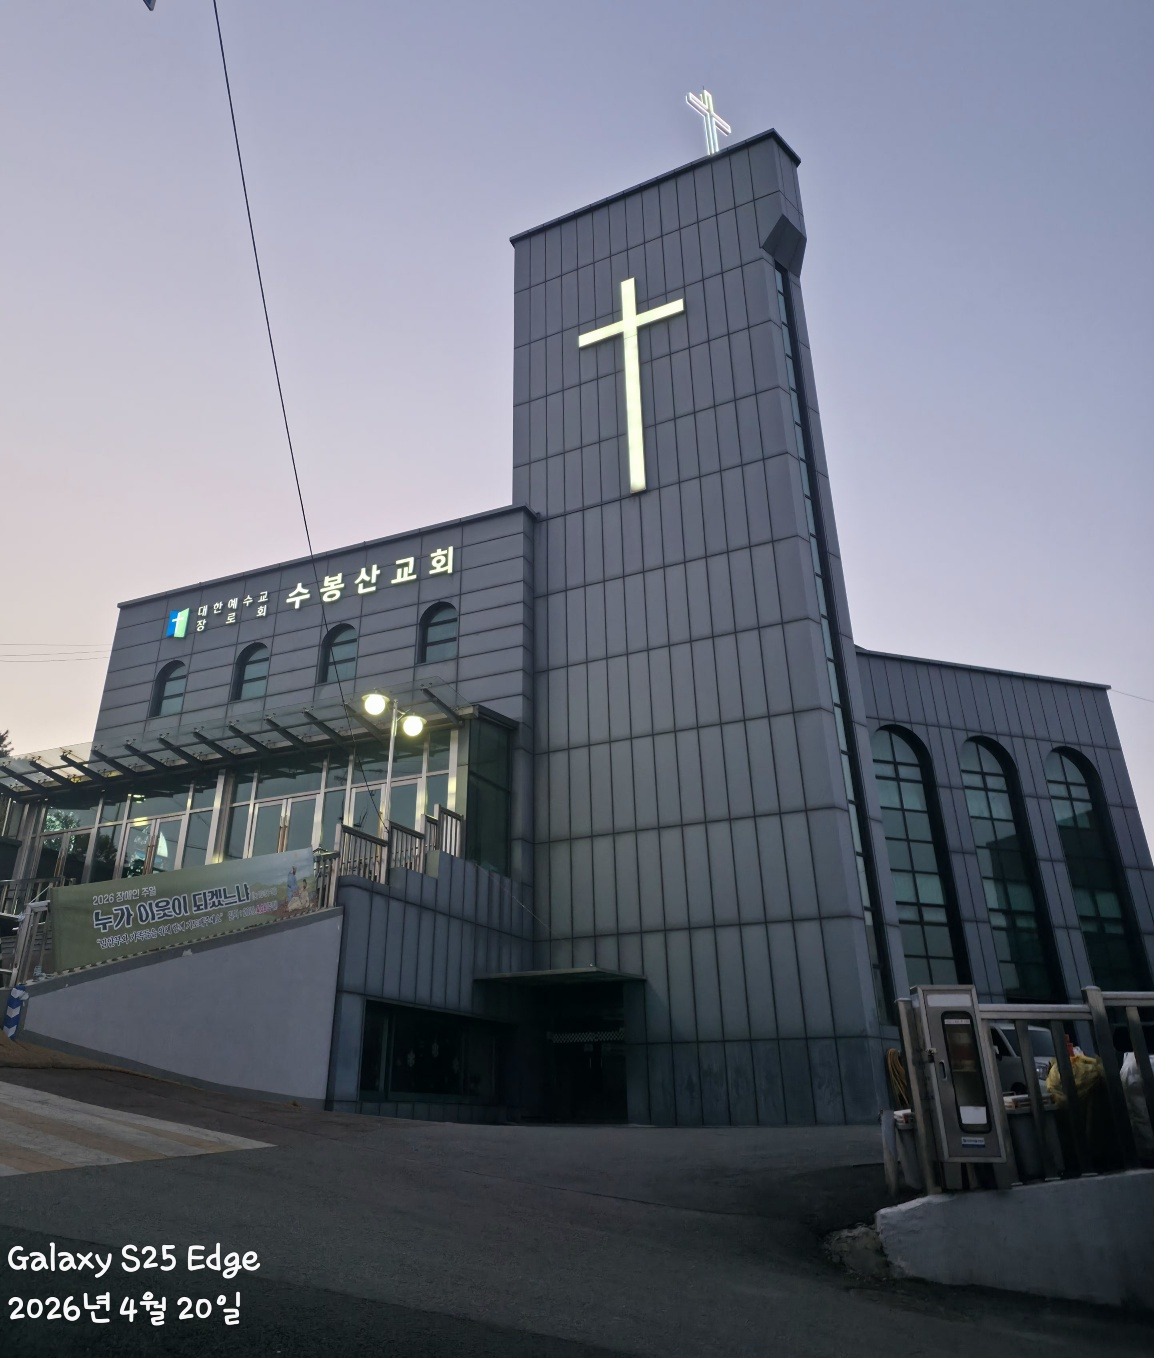
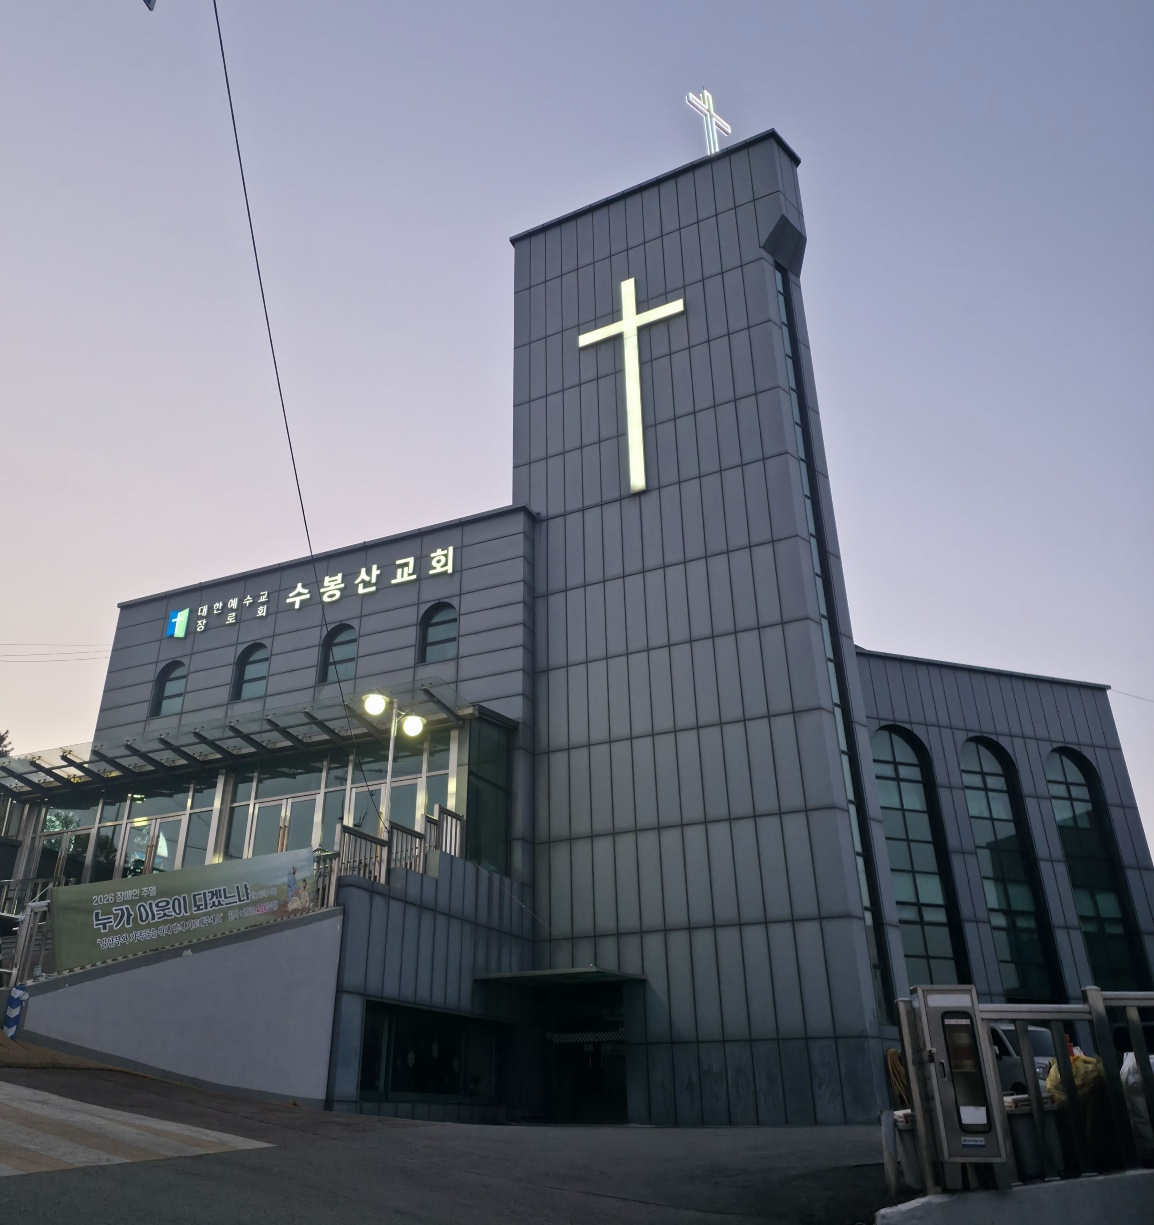
Crop camera watermark from church photo

diff --git a/index.html b/index.html
@@ -14,7 +14,7 @@
 </head>
 <body>
 <header class="wrap topbar"><a class="brand" href="#top"><span class="brand-icon">✳</span><span>수봉산장로교회<small>CHURCH CARE COMMITTEE</small></span></a><nav class="nav"><a href="#notice">공지사항</a><a href="#schedule">회의 일정</a><a href="#resources">자료실</a><a href="#contact">건의·요청</a></nav><a class="top-action" href="#resources">위원회 자료 보기 ↗</a></header>
-<main id="top" class="wrap"><section class="hero"><div><div class="eyebrow">TOGETHER, WE CARE</div><h1>함께 살피고<br><em>함께 세워가는</em><br>우리 교회</h1><p>수봉산장로교회 관리위원회를 위한 소통 공간입니다.<br>회의 일정과 공지, 관리 자료를 이곳에서 확인하세요.</p><div class="hero-cta"><a class="btn btn-primary" href="#notice">위원회 소식 보기 <span>→</span></a><a class="btn btn-ghost" href="#resources">자료실 바로가기</a></div></div><div class="hero-art"><img src="assets/committee-team.png?v=0cffe8c" alt="수봉산장로교회 본당 외관과 십자가"></div></section>
+<main id="top" class="wrap"><section class="hero"><div><div class="eyebrow">TOGETHER, WE CARE</div><h1>함께 살피고<br><em>함께 세워가는</em><br>우리 교회</h1><p>수봉산장로교회 관리위원회를 위한 소통 공간입니다.<br>회의 일정과 공지, 관리 자료를 이곳에서 확인하세요.</p><div class="hero-cta"><a class="btn btn-primary" href="#notice">위원회 소식 보기 <span>→</span></a><a class="btn btn-ghost" href="#resources">자료실 바로가기</a></div></div><div class="hero-art"><img src="assets/committee-team.png?v=watermark-removed-1" alt="수봉산장로교회 본당 외관과 십자가"></div></section>
 <div class="stats"><div class="stat"><div class="stat-icon">⌂</div><div><strong>시설 관리</strong><small>안전하고 편안한 예배 공간</small></div></div><div class="stat"><div class="stat-icon">♧</div><div><strong>함께하는 섬김</strong><small>위원회 소통과 협력</small></div></div><div class="stat"><div class="stat-icon">▤</div><div><strong>자료 공유</strong><small>회의 자료와 관리 기록</small></div></div></div>
 <section id="notice" class="section"><div class="section-head"><div><div class="eyebrow">UPDATES</div><h2>위원회 소식</h2></div><p>새로운 소식과 안내를 확인하세요</p></div><div class="grid"><article class="panel"><div class="panel-title"><h3>공지사항</h3><a class="text-link" href="#contact">공지 등록 안내 →</a></div><div class="notice"><div class="datebox">안내<b>01</b></div><div><h4>위원회 공지 내용을 이곳에 등록해 주세요</h4><p>회의 안내, 시설 점검, 봉사 일정 등을 공유할 수 있습니다.</p></div><span class="tag">공지 예시</span></div><div class="notice"><div class="datebox">자료<b>02</b></div><div><h4>회의록과 관리 자료를 자료실에 모아 주세요</h4><p>최신 파일과 관련 안내를 한 곳에서 확인할 수 있습니다.</p></div><span class="tag green">자료 안내</span></div><div class="notice"><div class="datebox">참여<b>03</b></div><div><h4>시설 관련 의견이나 요청을 전달해 주세요</h4><p>확인 후 담당 위원과 함께 살펴보겠습니다.</p></div><span class="tag">참여 안내</span></div></article>
 <article id="schedule" class="panel"><div class="panel-title"><h3>회의·점검 일정</h3><span class="tag green">일정 등록 공간</span></div><div class="meeting"><div class="cal">날짜<b>—</b></div><div><strong>정기 위원회 회의</strong><small>일시와 장소를 확정해 등록해 주세요</small></div></div><div class="meeting"><div class="cal">날짜<b>—</b></div><div><strong>교회 시설 점검</strong><small>담당자와 점검 항목을 함께 안내해 주세요</small></div></div><div class="agenda"><b>다음 회의 안건</b>회의 안건과 준비 사항을 이곳에 추가해 주세요.</div></article></div></section>
